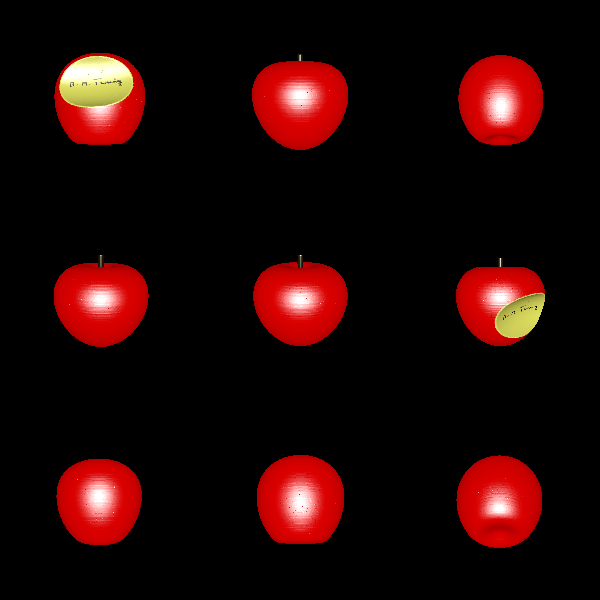
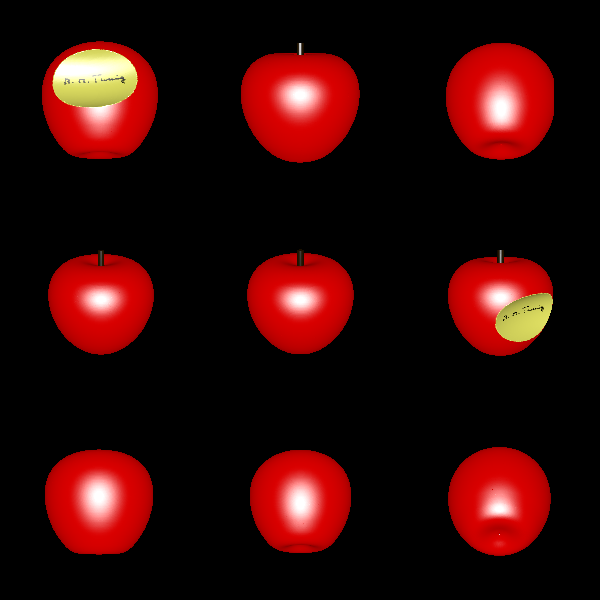
apple: cleanup code + add README

diff --git a/examples/decoration/apple/main.go b/examples/decoration/apple/main.go
@@ -1,16 +1,12 @@
 package main
 
 import (
-	"image"
-	"image/png"
 	"io/ioutil"
 	"math"
-	"os"
 
-	"github.com/unixpickle/model3d/render3d"
-
-	"github.com/unixpickle/essentials"
 	"github.com/unixpickle/model3d"
+	"github.com/unixpickle/model3d/model2d"
+	"github.com/unixpickle/model3d/render3d"
 )
 
 const AppleHeight = 1.0
@@ -23,7 +19,7 @@ func main() {
 		InnerRadius: 0.3,
 	}
 	biggerBite := *bite
-	biggerBite.InnerRadius += 0.01
+	biggerBite.InnerRadius += 0.005
 
 	stem := &model3d.Cylinder{
 		P1:     model3d.Coord3D{Z: AppleHeight / 2},
@@ -42,7 +38,7 @@ func main() {
 		Negative: bite,
 	}
 
-	mesh := model3d.MarchingCubesSearch(solid, 0.005, 8).SmoothAreas(0.1, 5)
+	mesh := model3d.MarchingCubesSearch(solid, 0.005, 8)
 
 	sig := NewSignature()
 	vertexColor := func(c model3d.Coord3D) [3]float64 {
@@ -65,16 +61,16 @@ func main() {
 }
 
 type AppleSolid struct {
-	Image image.Image
+	Image model2d.Solid
 }
 
 func NewAppleSolid() *AppleSolid {
-	r, err := os.Open("half_apple.png")
-	essentials.Must(err)
-	defer r.Close()
-	img, err := png.Decode(r)
-	essentials.Must(err)
-	return &AppleSolid{Image: img}
+	// Read and smooth the apple image to reduce
+	// artifacts from using pixels.
+	mesh := model2d.MustReadBitmap("half_apple.png", nil).FlipY().Mesh().SmoothSq(200)
+	collider := model2d.MeshToCollider(mesh)
+	solid := model2d.NewColliderSolid(collider)
+	return &AppleSolid{Image: model2d.ScaleSolid(solid, AppleHeight/solid.Max().Y)}
 }
 
 func (a *AppleSolid) Min() model3d.Coord3D {
@@ -86,52 +82,38 @@ func (a *AppleSolid) Max() model3d.Coord3D {
 }
 
 func (a *AppleSolid) Contains(c model3d.Coord3D) bool {
-	min := a.Min()
-	max := a.Max()
-	if c.Min(min) != min || c.Max(max) != max {
+	if !model3d.InBounds(a, c) {
 		return false
 	}
-
 	radius := (model3d.Coord2D{X: c.X, Y: c.Y}).Dist(model3d.Coord2D{})
-	imageX := int(math.Round(float64(a.Image.Bounds().Dx()) * (1 - radius/a.width())))
-	imageY := int(math.Round((AppleHeight - c.Z) / a.scale()))
+	if radius < 1e-5 {
+		// Prevent queries directly on the boundary.
+		radius = 1e-5
+	}
+	imageX := a.width() - radius
+	imageY := c.Z
 
-	_, _, _, alpha := a.Image.At(imageX, imageY).RGBA()
-	return alpha > 0xffff/2
-}
-
-func (a *AppleSolid) scale() float64 {
-	return AppleHeight / float64(a.Image.Bounds().Dy())
+	return a.Image.Contains(model2d.Coord{X: imageX, Y: imageY})
 }
 
 func (a *AppleSolid) width() float64 {
-	return AppleHeight * float64(a.Image.Bounds().Dx()) / float64(a.Image.Bounds().Dy())
+	return a.Image.Max().X
 }
 
 type Signature struct {
-	Image image.Image
+	Image *model2d.Bitmap
 }
 
 func NewSignature() *Signature {
-	r, err := os.Open("turing_signature.png")
-	essentials.Must(err)
-	defer r.Close()
-	img, err := png.Decode(r)
-	essentials.Must(err)
-	return &Signature{Image: img}
+	return &Signature{Image: model2d.MustReadBitmap("turing_signature.png", nil)}
 }
 
 func (s *Signature) Contains(c model3d.Coord3D) bool {
 	if c.X > 0 {
 		return false
 	}
-	scale := float64(s.Image.Bounds().Dx()) / 0.5
-	imageX := s.Image.Bounds().Dx()/2 - int(math.Round(c.Y*scale))
-	imageY := s.Image.Bounds().Dy()/2 - int(math.Round((c.Z-AppleHeight/2-0.05)*scale))
-	if imageX < 0 || imageY < 0 || imageX >= s.Image.Bounds().Dx() ||
-		imageY >= s.Image.Bounds().Dy() {
-		return false
-	}
-	_, _, _, a := s.Image.At(imageX, imageY).RGBA()
-	return a > 0xffff/2
+	scale := float64(s.Image.Width) / 0.5
+	imageX := s.Image.Width/2 - int(math.Round(c.Y*scale))
+	imageY := s.Image.Height/2 - int(math.Round((c.Z-AppleHeight/2-0.05)*scale))
+	return s.Image.Get(imageX, imageY)
 }

diff --git a/examples/decoration/apple/README.md b/examples/decoration/apple/README.md
@@ -1,0 +1,7 @@
+# apple
+
+This is a decoration meant to be printed in color (e.g. with Binder Jetting). It is a small apple with Alan Turing's signature written in the bite.
+
+# Renderings
+
+![Renderings](rendering.png)
